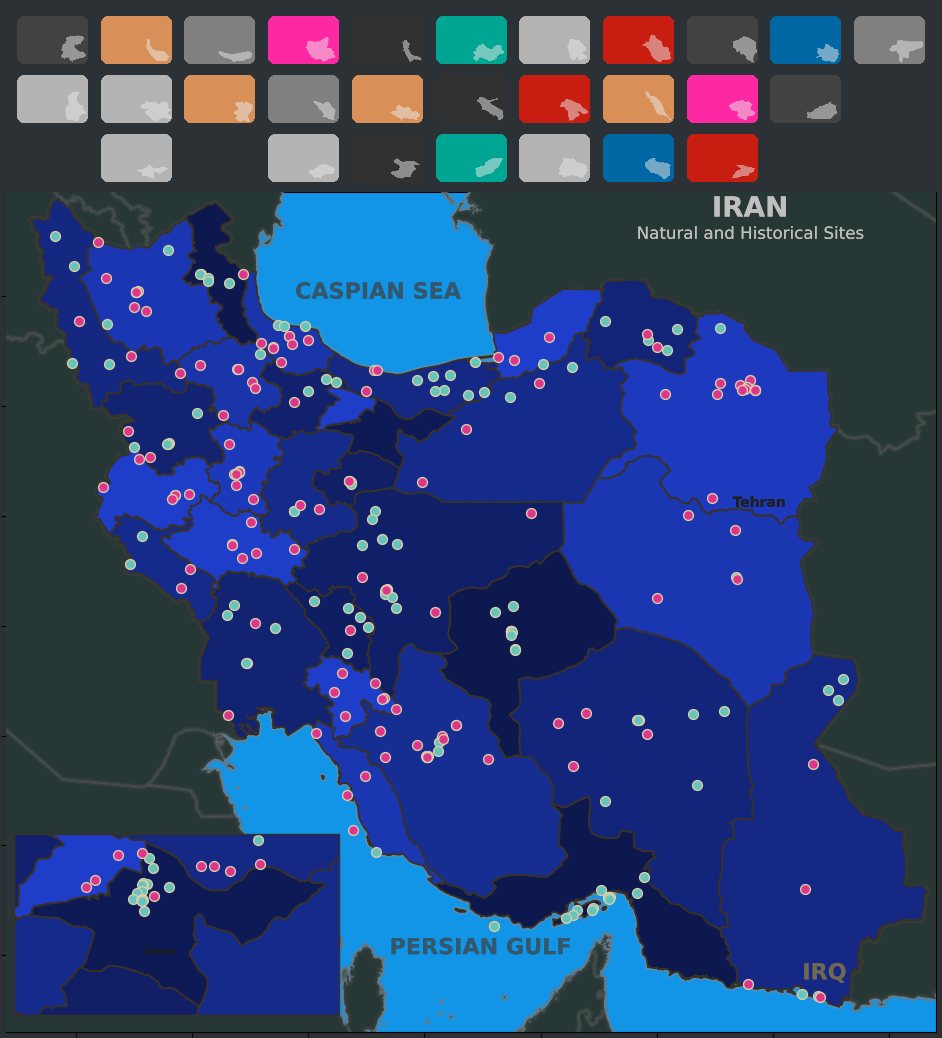
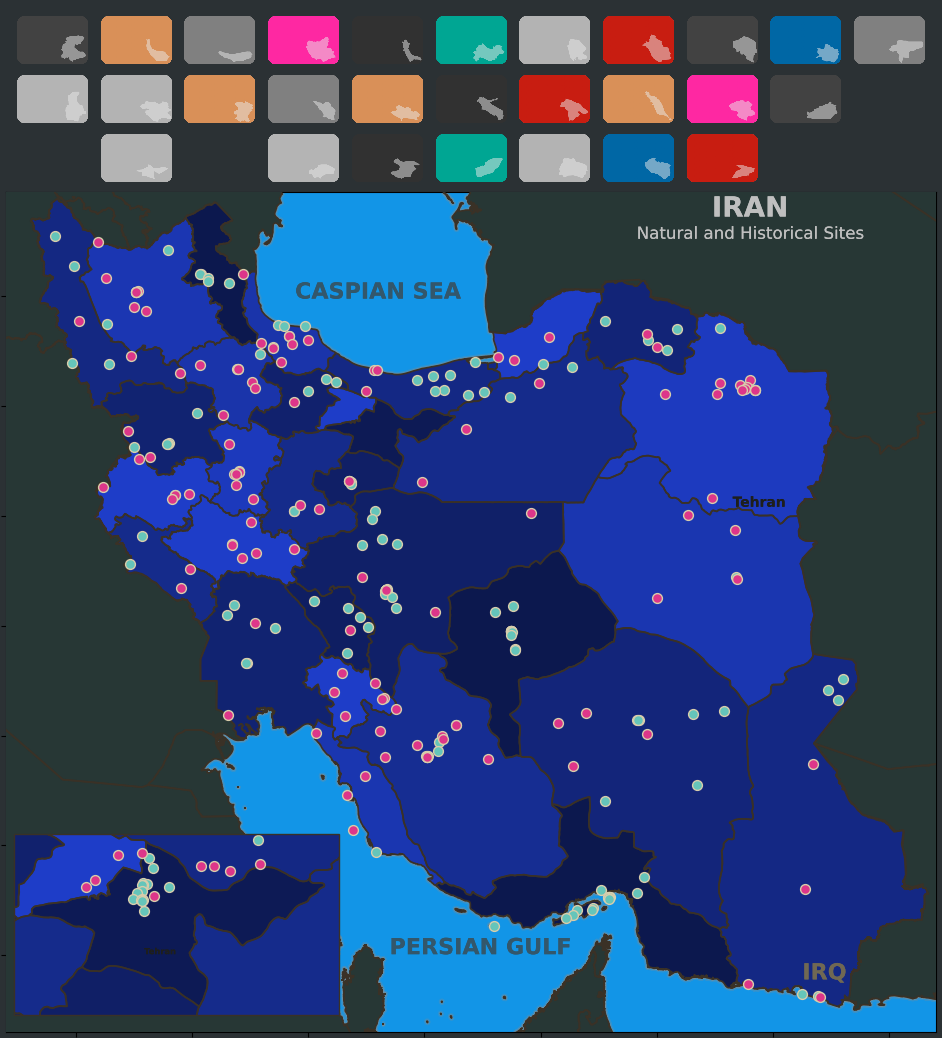
restructure bg maps

diff --git a/main.py b/main.py
@@ -12,7 +12,7 @@ from utils.file_utils import ensure_directory_exists
 # Map Directory
 # US NP | Germany | Europe | Iran |
 #  "us" |    "de" |   "eu" | "ir" |
-PATH = "us"
+PATH = "ir"
 
 small_map = True
 small_gif = False
